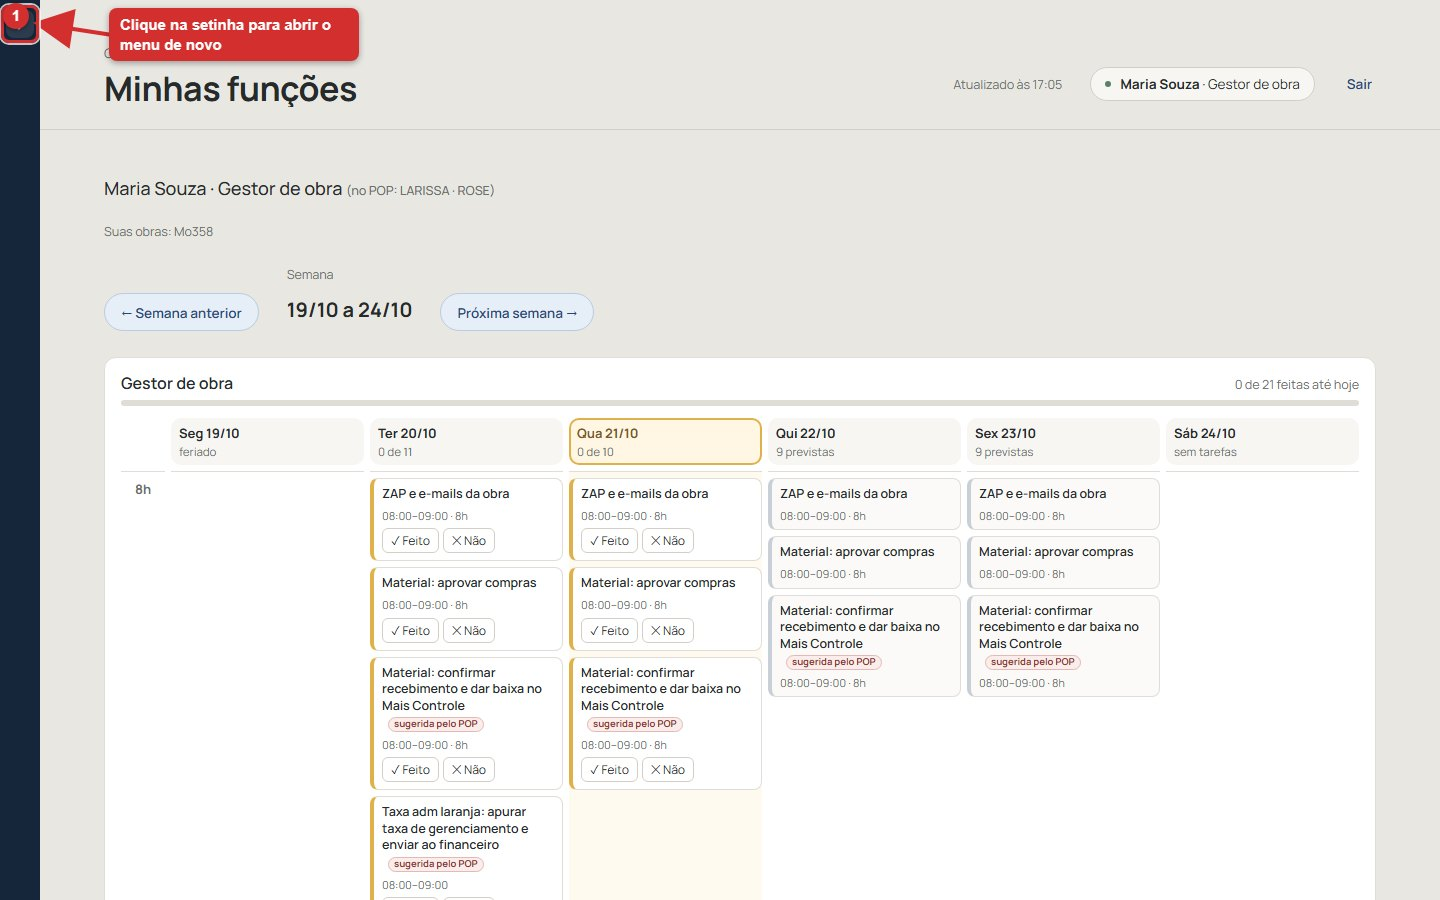
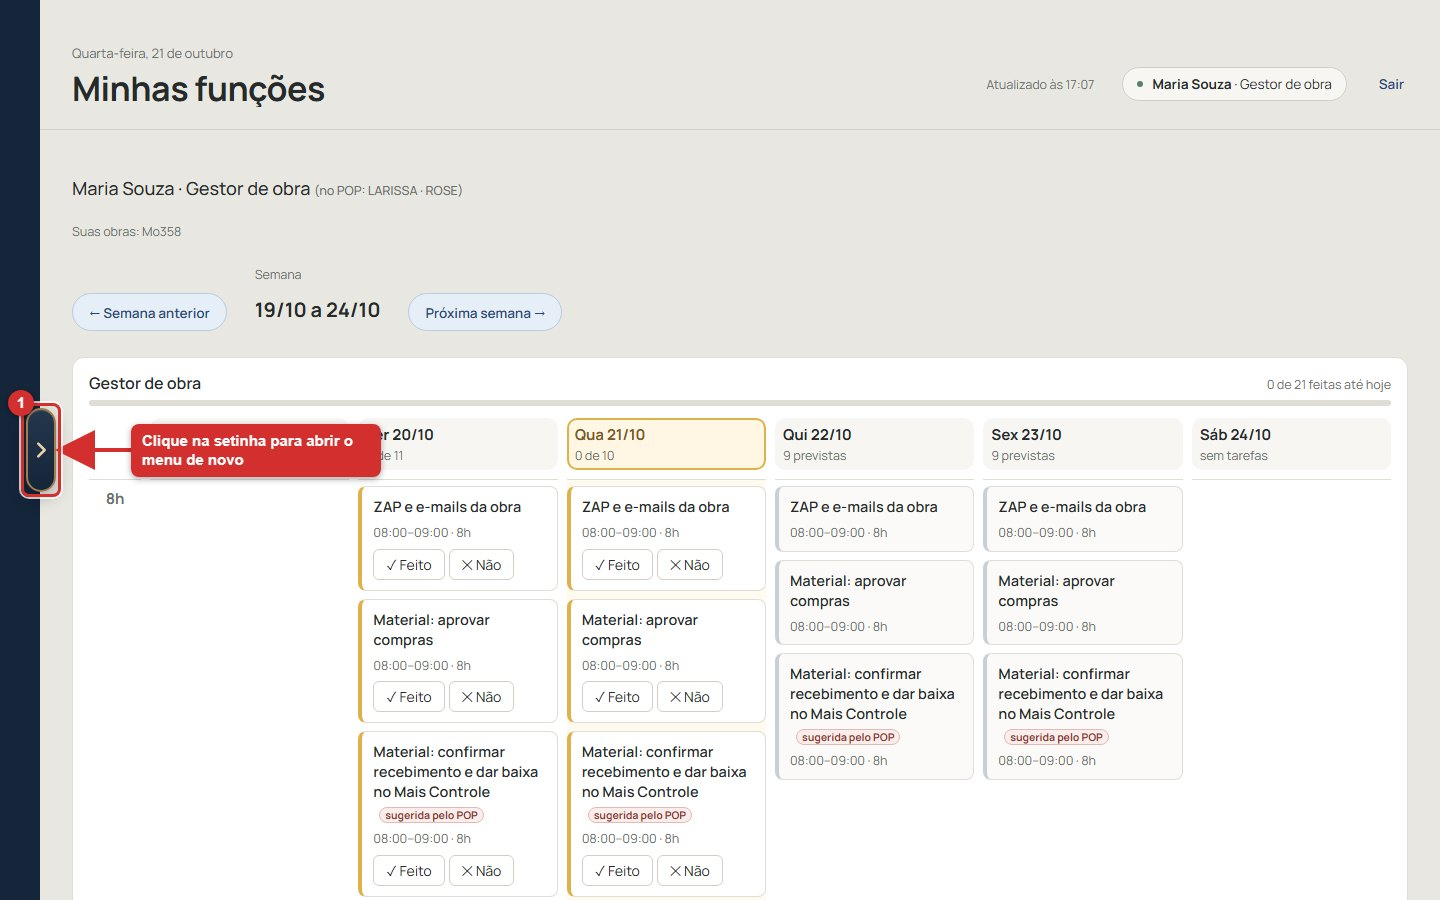
Menu lateral: setinha grande em pilula no meio da borda; print do treinamento atualizado

diff --git a/app/js/main.js b/app/js/main.js
@@ -240,12 +240,18 @@ function obrasDeAcesso() {
 // Menu lateral recolhível (21/10): ao abrir uma aba o menu recolhe e fica só uma tirinha com a setinha, para dar mais espaço à página.
 // Clicar na setinha abre de novo. Só em tela larga (no celular o menu já é uma faixa no alto).
 const recolhido = () => document.body.classList.contains('nav-recolhido');
-const botaoRecolher = () => `<button type="button" class="nav-toggle" id="navToggle" title="${recolhido() ? 'Abrir o menu' : 'Recolher o menu'}" aria-label="${recolhido() ? 'Abrir o menu' : 'Recolher o menu'}">${recolhido() ? '›' : '‹'}</button>`;
+const botaoRecolher = () => '';   // a setinha é um botão grande fixo no meio da lateral (criado em ajustarMenuRecolhivel)
 function ajustarMenuRecolhivel() {
-  $('#nav').addEventListener('click', (e) => {
-    if (e.target.closest('#navToggle')) { document.body.classList.toggle('nav-recolhido'); const b = $('#navToggle'); if (b) { b.textContent = recolhido() ? '›' : '‹'; b.title = recolhido() ? 'Abrir o menu' : 'Recolher o menu'; } return; }
-    if (e.target.closest('a.nav-item, a.nav-perfil')) { document.body.classList.add('nav-recolhido'); const b = $('#navToggle'); if (b) { b.textContent = '›'; b.title = 'Abrir o menu'; } }
-  });
+  const b = document.createElement('button'); b.type = 'button'; b.id = 'navToggle'; b.className = 'nav-handle';
+  document.body.appendChild(b);
+  const pintar = () => {
+    const r = recolhido();
+    b.dataset.estado = r ? 'fechado' : 'aberto'; b.title = r ? 'Abrir o menu' : 'Recolher o menu'; b.setAttribute('aria-label', b.title);
+    b.innerHTML = '<svg viewBox="0 0 24 24" width="22" height="22" aria-hidden="true"><path d="M15 5l-7 7 7 7" fill="none" stroke="currentColor" stroke-width="2.8" stroke-linecap="round" stroke-linejoin="round"/></svg>';
+  };
+  b.addEventListener('click', () => { document.body.classList.toggle('nav-recolhido'); pintar(); });
+  $('#nav').addEventListener('click', (e) => { if (e.target.closest('a.nav-item, a.nav-perfil')) { document.body.classList.add('nav-recolhido'); pintar(); } });
+  pintar();
 }
 
 function desenharNav(sel) {

diff --git a/app/css/estilo.css b/app/css/estilo.css
@@ -1965,3 +1965,21 @@ nav { position: relative; transition: width .18s ease; }
   body.nav-recolhido .fh-cel .fn-meta { font-size: 12.5px; }
   body.nav-recolhido .fh-cel .fn-b { font-size: 14px; padding: 5px 12px; }
 }
+
+/* ---- setinha grande do menu lateral (no meio da borda, sempre visível) ---- */
+.nav-toggle { display: none !important; }
+.nav-handle {
+  position: fixed; top: 50%; left: 262px; transform: translateY(-50%); z-index: 60;
+  width: 30px; height: 84px; padding: 0; border: 2px solid var(--bronze, #A07D4F); border-radius: 16px;
+  background: linear-gradient(180deg, #24374D, var(--verde, #1B2B3C)); color: #E8D2AE; cursor: pointer;
+  display: flex; align-items: center; justify-content: center;
+  box-shadow: 0 6px 18px rgba(0, 0, 0, .28), inset 0 1px 0 rgba(255, 255, 255, .12);
+  transition: left .18s ease, width .15s ease, background .15s ease, color .15s ease;
+}
+.nav-handle:hover { width: 36px; color: #fff; background: linear-gradient(180deg, #2E4562, #22344A); }
+.nav-handle:focus-visible { outline: 3px solid rgba(160, 125, 79, .55); outline-offset: 2px; }
+.nav-handle svg { transition: transform .18s ease; }
+.nav-handle[data-estado="fechado"] svg { transform: rotate(180deg); }
+body.nav-recolhido .nav-handle { left: 26px; }
+body.sem-login .nav-handle { display: none; }
+@media (max-width: 760px) { .nav-handle { display: none; } }
